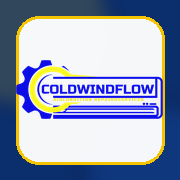
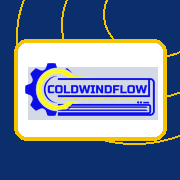
Add files via upload

diff --git a/cwf-loader.css b/cwf-loader.css
@@ -1,0 +1,18 @@
+/* CWF Lite App Loader - no video, no black screen */
+:root{--cwf-loader-navy:#0B2E6D;--cwf-loader-blue:#174EA6;--cwf-loader-yellow:#F4C400;}
+.cwf-loader{position:fixed;inset:0;z-index:999999;display:flex;align-items:center;justify-content:center;background:linear-gradient(160deg,var(--cwf-loader-navy),var(--cwf-loader-blue));overflow:hidden;transition:opacity .32s ease,visibility .32s ease;}
+.cwf-loader::before{content:"";position:absolute;inset:-25%;background:radial-gradient(circle at 25% 20%,rgba(244,196,0,.28),transparent 30%),radial-gradient(circle at 80% 10%,rgba(255,255,255,.18),transparent 28%),radial-gradient(circle at 50% 90%,rgba(23,78,166,.55),transparent 35%);animation:cwfLoaderDrift 4s ease-in-out infinite alternate;}
+.cwf-loader__card{position:relative;width:min(310px,82vw);border-radius:30px;padding:26px 22px 22px;background:rgba(255,255,255,.96);border:2px solid rgba(244,196,0,.9);box-shadow:0 28px 80px rgba(0,0,0,.25);text-align:center;transform:translateY(6px);animation:cwfLoaderRise .55s ease forwards;}
+.cwf-loader__logoWrap{width:136px;height:136px;margin:0 auto 14px;border-radius:34px;display:flex;align-items:center;justify-content:center;background:linear-gradient(180deg,#fff,#fff8d8);border:1px solid rgba(11,46,109,.10);box-shadow:0 14px 34px rgba(11,46,109,.16);position:relative;}
+.cwf-loader__logoWrap::after{content:"";position:absolute;inset:-8px;border-radius:40px;border:3px solid var(--cwf-loader-yellow);border-left-color:transparent;animation:cwfSpin 1.15s linear infinite;}
+.cwf-loader__logo{max-width:112px;max-height:112px;object-fit:contain;filter:drop-shadow(0 5px 8px rgba(11,46,109,.18));}
+.cwf-loader__title{font-weight:1000;color:var(--cwf-loader-navy);font-size:20px;line-height:1.15;margin-top:2px;}
+.cwf-loader__sub{font-weight:800;color:#64748B;font-size:13px;margin-top:6px;}
+.cwf-loader__bar{height:9px;border-radius:999px;background:#E7EEF9;overflow:hidden;margin-top:18px;}
+.cwf-loader__bar span{display:block;height:100%;width:42%;border-radius:999px;background:linear-gradient(90deg,var(--cwf-loader-yellow),#ffe678);animation:cwfLoaderBar 1.05s ease-in-out infinite;}
+.cwf-loader.is-hidden{opacity:0;visibility:hidden;pointer-events:none;}
+@keyframes cwfSpin{to{transform:rotate(360deg)}}
+@keyframes cwfLoaderBar{0%{transform:translateX(-120%)}100%{transform:translateX(245%)}}
+@keyframes cwfLoaderRise{to{transform:translateY(0)}}
+@keyframes cwfLoaderDrift{from{transform:translate3d(-10px,-8px,0) scale(1)}to{transform:translate3d(12px,10px,0) scale(1.04)}}
+@media (prefers-reduced-motion:reduce){.cwf-loader,.cwf-loader *{animation:none!important;transition:none!important}}

diff --git a/cwf-loader.js b/cwf-loader.js
@@ -1,0 +1,20 @@
+(function(){
+  'use strict';
+  var KEY='cwf_loader_seen_v2';
+  var MAX_WAIT=1300;
+  var MIN_SHOW=420;
+  function ready(fn){ if(document.readyState==='loading') document.addEventListener('DOMContentLoaded',fn,{once:true}); else fn(); }
+  function hide(el){ if(!el) return; el.classList.add('is-hidden'); setTimeout(function(){ try{ el.remove(); }catch(e){} }, 380); }
+  ready(function(){
+    try{ if(sessionStorage.getItem(KEY)==='1') return; sessionStorage.setItem(KEY,'1'); }catch(e){}
+    var el=document.createElement('div');
+    el.className='cwf-loader';
+    el.setAttribute('aria-label','กำลังโหลด CWF');
+    el.innerHTML='<div class="cwf-loader__card"><div class="cwf-loader__logoWrap"><img class="cwf-loader__logo" src="/icon-192.png" alt="CWF"></div><div class="cwf-loader__title">Coldwindflow Air Services</div><div class="cwf-loader__sub">กำลังโหลดหน้าแอพ...</div><div class="cwf-loader__bar"><span></span></div></div>';
+    document.body.prepend(el);
+    var start=Date.now();
+    function done(){ var left=Math.max(0, MIN_SHOW-(Date.now()-start)); setTimeout(function(){ hide(el); }, left); }
+    if(document.readyState==='complete') done(); else window.addEventListener('load', done, {once:true});
+    setTimeout(function(){ hide(el); }, MAX_WAIT);
+  });
+})();

diff --git a/admin-super-v2.html b/admin-super-v2.html
@@ -1,10 +1,12 @@
 <!DOCTYPE html>
 <html lang="th">
 <head>
+  <meta name="theme-color" content="#0B2E6D">
   <meta charset="UTF-8" />
   <meta name="viewport" content="width=device-width, initial-scale=1" />
   <title>Super Admin - CWF</title>
   <link rel="stylesheet" href="style.css">
+  <link rel="stylesheet" href="/cwf-loader.css?v=lite-loader-v1">
   <style>
     body.cwf-lux{background:linear-gradient(180deg,#0b1b3a 0%, #0b4bb3 28%, #f5f7ff 28%, #ffffff 100%)!important}
     .app{max-width:1100px;margin:0 auto;padding:14px 14px 140px}
@@ -71,8 +73,7 @@
     .soft-hide-table{display:none!important}
     @media(max-width:920px){.payroll-shell,.payroll-cards{grid-template-columns:1fr}.payroll-actions{grid-template-columns:1fr}.payout-card-item .topline{flex-direction:column}.payroll-focus > summary{font-size:15px}.grid{grid-template-columns:1fr}}
   </style>
-  <link rel="stylesheet" href="/cwf-splash.css?v=round2-visual">
-  <script defer src="/cwf-splash.js?v=round2-visual"></script>
+  <link rel="manifest" href="/mainfest.json">
 </head>
 <body class="cwf-lux">
   <div class="app">
@@ -490,5 +491,6 @@
   </div>
 
   <script src="admin-super-v2.js?v=contract-payroll-v10-3-payroll-ui"></script>
+  <script src="/cwf-loader.js?v=lite-loader-v1"></script>
 </body>
 </html>

diff --git a/admin-dashboard-v2.html b/admin-dashboard-v2.html
@@ -1,10 +1,12 @@
 <!DOCTYPE html>
 <html lang="th">
 <head>
+  <meta name="theme-color" content="#0B2E6D">
   <meta charset="UTF-8" />
   <meta name="viewport" content="width=device-width, initial-scale=1" />
   <title>Admin Dashboard - CWF</title>
   <link rel="stylesheet" href="style.css">
+  <link rel="stylesheet" href="/cwf-loader.css?v=lite-loader-v1">
   <style>
     :root{
       --blue1:#0b4bb3;
@@ -146,8 +148,7 @@
     .pill.blue{background:var(--blue1);color:#fff}
     .pill.gray{background:#eef2ff;color:#0b1b3a}
   </style>
-  <link rel="stylesheet" href="/cwf-splash.css?v=round2-visual">
-  <script defer src="/cwf-splash.js?v=round2-visual"></script>
+  <link rel="manifest" href="/mainfest.json">
 </head>
 <body>
   <div class="wrap">
@@ -389,5 +390,6 @@
 
   <script src="admin-v2-common.js?v=20260212_dash_ui2"></script>
   <script src="admin-dashboard-v2.js?v=20260212_dash_ui2"></script>
+  <script src="/cwf-loader.js?v=lite-loader-v1"></script>
 </body>
 </html>

diff --git a/tech.html b/tech.html
@@ -1,10 +1,12 @@
 <!DOCTYPE html>
 <html lang="th">
 <head>
+  <meta name="theme-color" content="#0B2E6D">
   <meta charset="UTF-8" />
   <meta name="viewport" content="width=device-width, initial-scale=1.0"/>
   <title>หน้าช่าง - CWF</title>
   <link rel="stylesheet" href="style.css">
+  <link rel="stylesheet" href="/cwf-loader.css?v=lite-loader-v1">
 
   <style>
     :root{
@@ -295,8 +297,7 @@
       .premium-input, input[type="date"].premium-input{width:100%; min-width:0;}
     }
   </style>
-  <link rel="stylesheet" href="/cwf-splash.css?v=round2-visual">
-  <script defer src="/cwf-splash.js?v=round2-visual"></script>
+  <link rel="manifest" href="/mainfest.json">
 </head>
 
 <body>
@@ -958,5 +959,6 @@ function logout(){
       switchTab(initial, { persist: false });
     });
   </script>
+  <script src="/cwf-loader.js?v=lite-loader-v1"></script>
 </body>
 </html>

diff --git a/login.html b/login.html
@@ -8,13 +8,12 @@
   <meta name="theme-color" content="#0B2E6D">
   <meta name="mobile-web-app-capable" content="yes">
   <meta name="apple-mobile-web-app-capable" content="yes">
-  <meta name="apple-mobile-web-app-status-bar-style" content="black-translucent">
+  <meta name="apple-mobile-web-app-status-bar-style" content="default">
   <link rel="apple-touch-icon" href="/icon-180.png">
 
   <title>Login - CWF</title>
   <link rel="stylesheet" href="style.css">
-  <link rel="stylesheet" href="/cwf-splash.css?v=round2-visual">
-  <script defer src="/cwf-splash.js?v=round2-visual"></script>
+  <link rel="stylesheet" href="/cwf-loader.css?v=lite-loader-v1">
 </head>
 <body class="theme-yellowblue" data-theme-lock="yellowblue">
 
@@ -150,5 +149,6 @@
   }
 </script>
 
+  <script src="/cwf-loader.js?v=lite-loader-v1"></script>
 </body>
 </html>

diff --git a/sw.js b/sw.js
@@ -1,7 +1,7 @@
 // ✅ Phase 2: PWA เสถียร + บังคับอัปเดต cache
 // - เพิ่ม icons (192/512/maskable) ให้ Chrome “ติดตั้งเป็นแอพ” ได้จริง
 // - bump cache name เพื่อกันไฟล์ค้าง
-const CACHE_NAME = "cwf-cache-v26-premium-splash-round2";
+const CACHE_NAME = "cwf-cache-v27-lite-loader-no-video";
 
 const ASSETS = [
   "/",
@@ -9,11 +9,10 @@ const ASSETS = [
   "/index.html",
   "/tech.html",
   "/style.css",
-  "/app.js?v=round2-visual",
+  "/cwf-loader.css?v=lite-loader-v1",
+  "/cwf-loader.js?v=lite-loader-v1",
+  "/app.js?v=tech-premium-v10-5",
   "/logo.png",
-  "/cwf-splash.mp4",
-  "/cwf-splash.js",
-  "/cwf-splash.css",
   "/icon-180.png",
   "/icon-192.png",
   "/icon-512.png",

diff --git a/customer.html b/customer.html
@@ -7,7 +7,8 @@
   <!-- cache-bust: ensure latest css in PWA/Android webview -->
   <link rel="stylesheet" href="style.css?v=19">
   <link rel="manifest" href="/mainfest.json">
-  <meta name="theme-color" content="#0b4bb3">
+  <meta name="theme-color" content="#0B2E6D">
+  <link rel="stylesheet" href="/cwf-loader.css?v=lite-loader-v1">
 </head>
 <body class="theme-2 customer-page">
   <!-- ===== Customer Debug FAB + Panel (เหมือนหน้าแอดมิน) ===== -->
@@ -1682,5 +1683,6 @@ if('serviceWorker' in navigator){
   </div>
 </div>
 
+  <script src="/cwf-loader.js?v=lite-loader-v1"></script>
 </body>
 </html>

diff --git a/index.html b/index.html
@@ -2,7 +2,7 @@
 <html lang="th">
 <head>
 <link rel="manifest" href="/mainfest.json">
-<meta name="theme-color" content="#0b5ed7">
+<meta name="theme-color" content="#0B2E6D">
 
   <meta charset="UTF-8">
   <title>CWF งานช่าง</title>
@@ -28,6 +28,7 @@
       margin: 0 0 8px;
     }
   </style>
+  <link rel="stylesheet" href="/cwf-loader.css?v=lite-loader-v1">
 </head>
 <body>
   <div class="app">
@@ -41,6 +42,7 @@
 </div>
 
   <script src="app.js"></script>
+  <script src="/cwf-loader.js?v=lite-loader-v1"></script>
 </body>
 <script>
 if ("serviceWorker" in navigator) {
